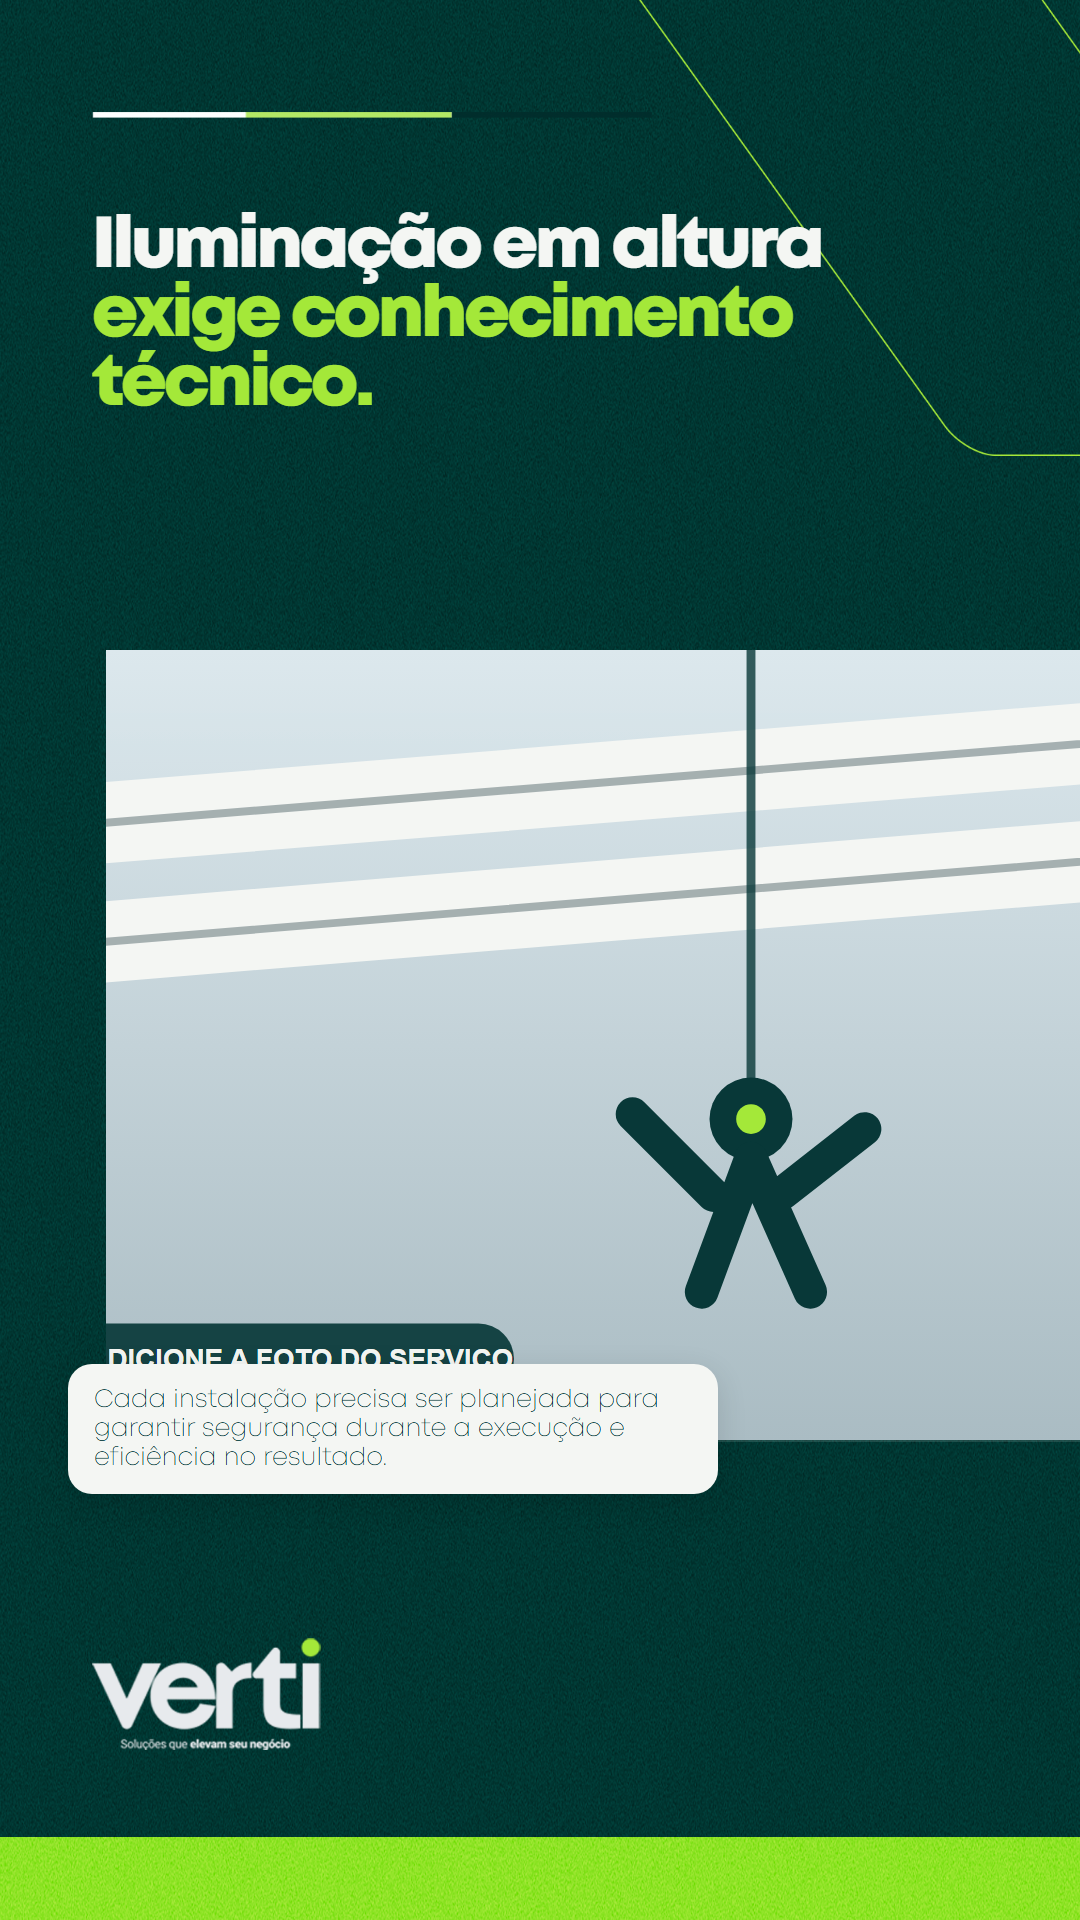
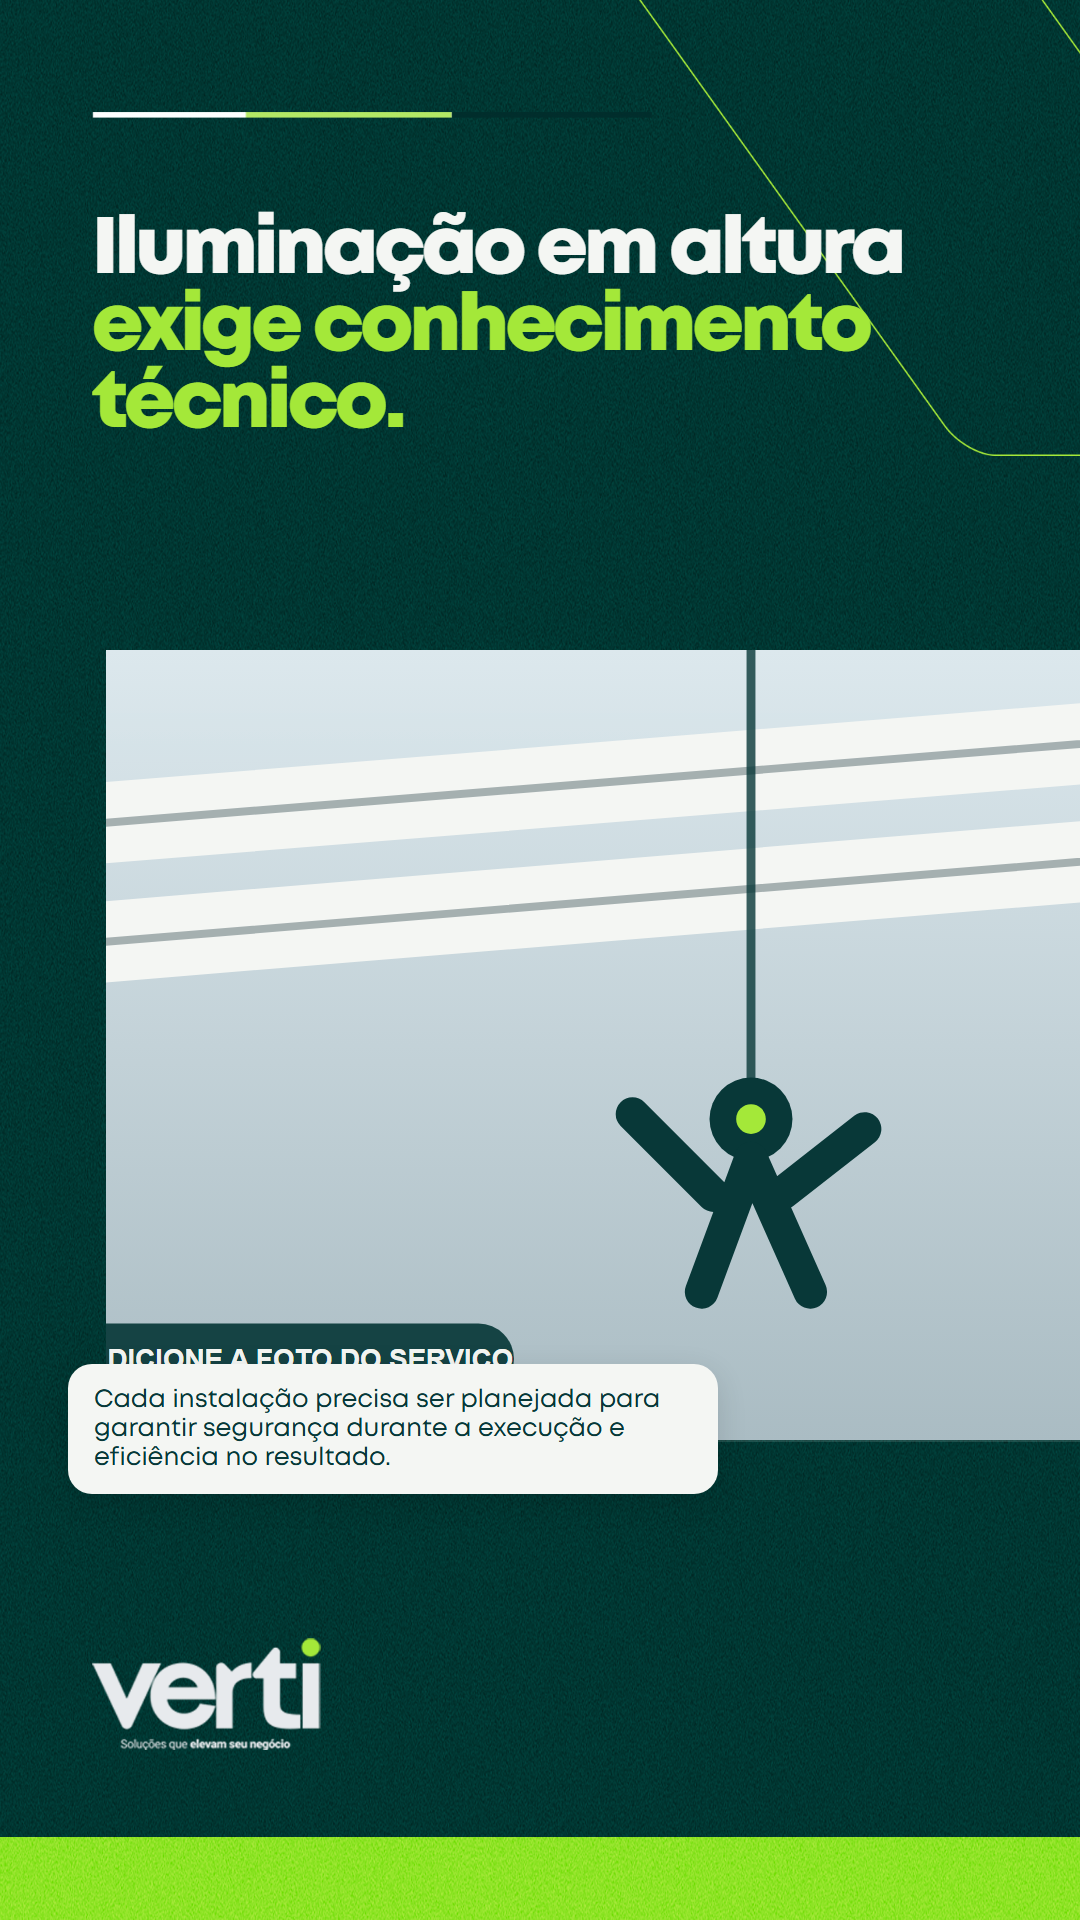
Ajusta título e texto da Verti

Changed region(s): [[0.0917, 0.0938, 0.8556, 0.25], [0.0917, 0.7188, 0.6111, 0.7812]]

diff --git a/src/lib/visual-engine.ts b/src/lib/visual-engine.ts
@@ -44,6 +44,9 @@ function renderVertiOption01({ brand, slide, output, template, variant }: {
   const photo = slide.imageUrl ?? brand.images[0]?.path;
   const headline = vertiHeadlineParts(slide.content.headline);
   const headlineFit = fitTextToTemplate(slide.content.headline, template.textLimits.headline);
+  const headlineFontSize = output === "story"
+    ? Math.min(90, Math.max(78, headlineFit.fontSize + 8))
+    : Math.max(62, headlineFit.fontSize);
   const bodyFit = fitTextToTemplate(slide.content.body, template.textLimits.body);
   const support = [slide.content.subheadline, slide.content.body].filter(Boolean).join(" ");
 
@@ -52,10 +55,10 @@ ${getBrandFontFaceCss(brand)}
 .verti-slide{position:relative;width:${dimension.width}px;height:${dimension.height}px;overflow:hidden;background:${brand.colors.primary} url('${escapeHtml(background)}') center/cover no-repeat;color:${brand.colors.light};font-family:'${brand.typography.body.family}',${brand.typography.body.fallback};}
 .verti-accent-line{position:absolute;z-index:2;left:${output === "feed" ? 78 : 92}px;top:${output === "feed" ? 76 : 112}px;width:${output === "feed" ? 520 : 560}px;height:auto;}
 .verti-outline{position:absolute;z-index:1;width:${output === "feed" ? 720 : 760}px;height:auto;right:${output === "feed" ? -165 : -275}px;${output === "feed" ? "bottom:74px" : "top:-82px"};}
-.verti-headline{position:absolute;z-index:4;left:${output === "feed" ? 78 : 92}px;right:${output === "feed" ? 120 : 100}px;top:${output === "feed" ? 145 : 210}px;margin:0;font-family:'${brand.typography.headline.family}',${brand.typography.headline.fallback};font-size:${Math.max(output === "feed" ? 62 : 66, headlineFit.fontSize)}px;line-height:.96;letter-spacing:-.045em;font-weight:800;}
+.verti-headline{position:absolute;z-index:4;left:${output === "feed" ? 78 : 92}px;right:${output === "feed" ? 120 : 100}px;top:${output === "feed" ? 145 : 210}px;margin:0;font-family:'${brand.typography.headline.family}',${brand.typography.headline.fallback};font-size:${headlineFontSize}px;line-height:.96;letter-spacing:-.045em;font-weight:800;}
 .verti-headline span,.verti-headline strong{display:block;}.verti-headline span{color:${brand.colors.light};}.verti-headline strong{color:${brand.colors.accent};font-weight:800;}
 .verti-photo{position:absolute;z-index:3;left:${output === "feed" ? 134 : 106}px;right:0;top:${output === "feed" ? 430 : 650}px;height:${output === "feed" ? 520 : 790}px;background:${brand.colors.surface} url('${escapeHtml(photo)}') ${slide.imagePosition.x}% ${slide.imagePosition.y}%/cover no-repeat;box-shadow:0 2px 0 rgba(255,255,255,.12);}
-.verti-callout{position:absolute;z-index:5;left:${output === "feed" ? 78 : 68}px;top:${output === "feed" ? 858 : 1364}px;width:${output === "feed" ? 565 : 650}px;min-height:${output === "feed" ? 104 : 118}px;box-sizing:border-box;border-radius:24px;background:${brand.colors.light};color:${brand.colors.primary};display:flex;align-items:center;padding:${output === "feed" ? "20px 22px" : "22px 26px"};font-size:${Math.max(18, Math.min(output === "feed" ? 25 : 27, bodyFit.fontSize))}px;line-height:1.15;font-weight:200;box-shadow:0 8px 30px rgba(0,0,0,.12);}
+.verti-callout{position:absolute;z-index:5;left:${output === "feed" ? 78 : 68}px;top:${output === "feed" ? 858 : 1364}px;width:${output === "feed" ? 565 : 650}px;min-height:${output === "feed" ? 104 : 118}px;box-sizing:border-box;border-radius:24px;background:${brand.colors.light};color:${brand.colors.primary};display:flex;align-items:center;padding:${output === "feed" ? "20px 22px" : "22px 26px"};font-size:${Math.max(18, Math.min(output === "feed" ? 25 : 27, bodyFit.fontSize))}px;line-height:1.15;font-weight:400;box-shadow:0 8px 30px rgba(0,0,0,.12);}
 .verti-callout-text{flex:1}
 .verti-logo{position:absolute;z-index:4;left:${output === "feed" ? 78 : 92}px;bottom:${output === "feed" ? 102 : 170}px;width:${output === "feed" ? 245 : 285}px;height:${output === "feed" ? 96 : 112}px;object-fit:contain;object-position:left center;}
 .verti-overflow{position:absolute;z-index:7;right:25px;bottom:25px;padding:8px 12px;border-radius:8px;background:#fff;color:#8a2d1d;font:700 16px Arial,sans-serif;}

diff --git a/src/lib/__tests__/verti-visual.test.ts b/src/lib/__tests__/verti-visual.test.ts
@@ -58,6 +58,8 @@ describe("aparência da Verti · Opção 01", () => {
     expect(feedHtml).toContain("Mont-ExtraLight.woff2");
     expect(feedHtml).not.toContain("verti-marker");
     expect(feedHtml).not.toContain("↗");
+    expect(feedHtml).toMatch(/\.verti-callout\{[^}]*font-weight:400/);
+    expect(storyHtml).toMatch(/\.verti-headline\{[^}]*font-size:80px/);
 
     const [feed, story] = await Promise.all([
       exportSlide({ id: "verti-visual-feed", order: 0, notes: "", previousVersions: [], html: feedHtml }, "4:5"),
